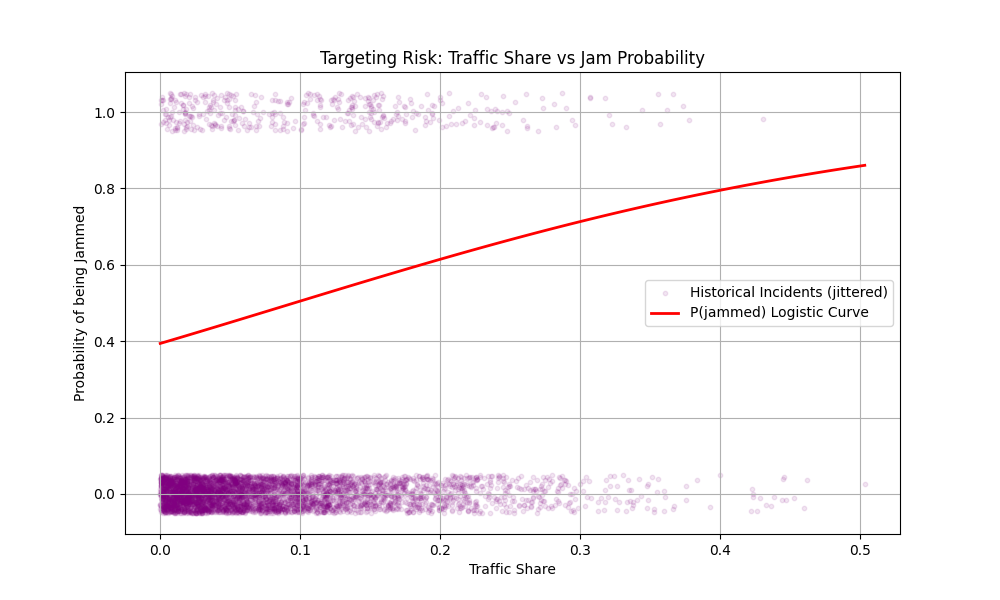
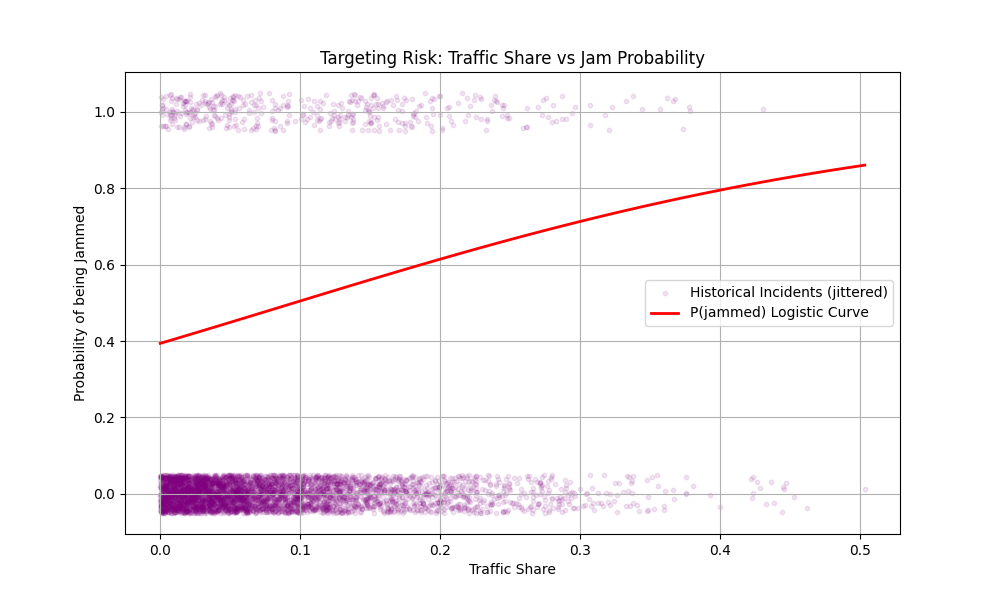
fix(trust): reverse trust model probability logic using survival function to correctly identify deceptive links

diff --git a/backend/training/train_trust_model.py b/backend/training/train_trust_model.py
@@ -51,8 +51,7 @@ def train_trust_model():
     print(f"  Honest distribution: mu={mu_honest:.4f}, sigma={sigma_honest:.4f}")
     
     # 4. For each observation, compute P(deceptive)
-    #    CDF gives P(X <= ratio) — the lower the ratio, the more deceptive
-    df['p_deceptive'] = stats.norm.cdf(df['ratio'], loc=mu_honest, scale=sigma_honest)
+    df['p_deceptive'] = stats.norm.sf(df['ratio'], loc=mu_honest, scale=sigma_honest)
     df['p_honest'] = 1.0 - df['p_deceptive']
     
     # 5. Soft Bayesian update per link
